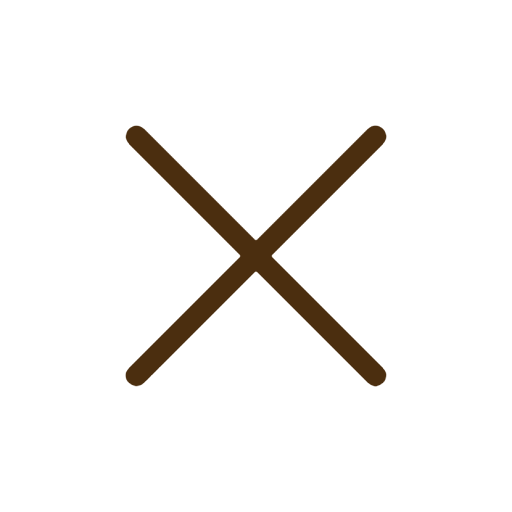
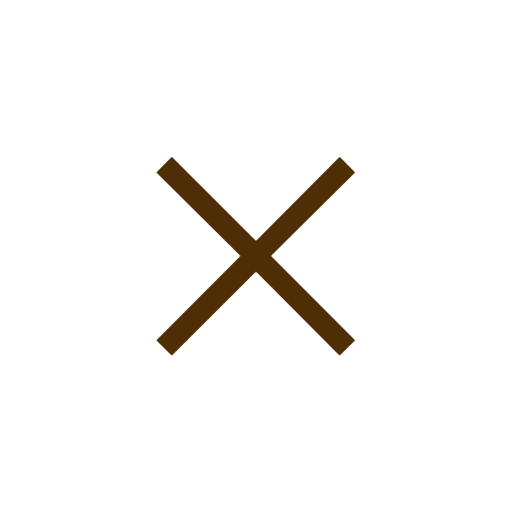
added "netlify-honeypot="bot-field"" to ordering & connect / changes close svg

diff --git a/sweet/ordering.html b/sweet/ordering.html
@@ -72,8 +72,8 @@
                                         
                                 </section>
 
-                                <form name="order" id="orderForm" method="POST" data-netlify="true" action="/ordering.html">
-                                    
+                                <form method="POST" data-netlify="true" name="order-form" action="success.html" netlify-honeypot="bot-field">
+
                                     <input type="hidden" name="_subject" value="New Order Request from Sweet Adventures Club Website" />
                                 
                                     <h5>choose from the menu below</h5>

diff --git a/sweet/connect.html b/sweet/connect.html
@@ -129,7 +129,7 @@
                                     </p>
 
                                     <!-- NOTE: Added id="contactForm" for JavaScript targeting -->
-                                    <form name="contact" id="contactForm" method="POST" data-netlify="true" action="connect.html">
+                                    <form name="contact" id="contactForm" method="POST" data-netlify="true" action="success.html" netlify-honeypot="bot-field">
 
                                         <input type="hidden" name="form-name" value="contact" />
                                         

diff --git a/sweet/assets/css/main.css b/sweet/assets/css/main.css
@@ -3673,7 +3673,7 @@ input[type="date"]:valid::-webkit-datetime-edit-year-field {
 					}
 
 		#menu .close {
-			background-image: url("/assets/css/images/close.png");
+			background-image: url("/assets/css/images/close.svg");
 			background-position: 4.85em 1em;
 			background-repeat: no-repeat;
 			border: 0;
